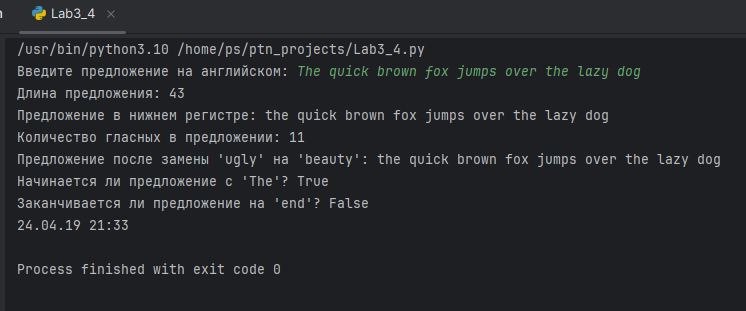
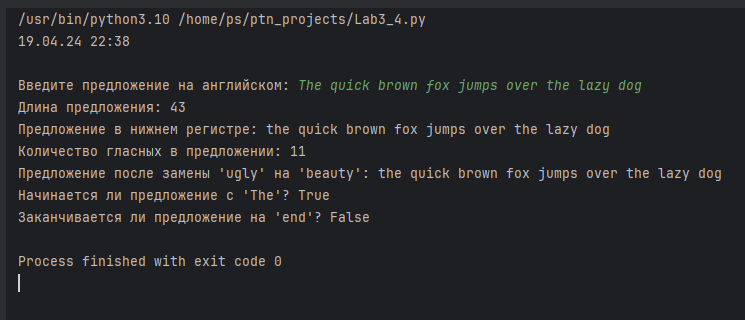
Рефакторинг

Changed region(s): [[0.0, 0.2026, 0.9879, 0.7524], [0.0, 0.0, 0.5866, 0.1736], [0.0, 0.7814, 0.4013, 0.8971]]

diff --git a/Lab3_4.py b/Lab3_4.py
@@ -1,6 +1,5 @@
-from datetime import datetime
-current_datetime = datetime.now()
-formatted_datetime = current_datetime.strftime('%y.%m.%d %H:%M')
+from get_datetime import get_datetime
+get_datetime()
 
 sentence = input("Введите предложение на английском: ")
 print("Длина предложения:", len(sentence))
@@ -14,5 +13,3 @@ starts_with_the = sentence.startswith("The")
 ends_with_end = sentence.endswith("end")
 print("Начинается ли предложение с 'The'?", starts_with_the)
 print("Заканчивается ли предложение на 'end'?", ends_with_end)
-
-print(formatted_datetime)

diff --git a/Lab3_3.py b/Lab3_3.py
@@ -1,7 +1,5 @@
-from datetime import datetime
-current_datetime = datetime.now()
-formatted_datetime = current_datetime.strftime('%y.%m.%d %H:%M')
-
+from get_datetime import get_datetime
+get_datetime()
 try:
     number = float(input("Введите число от 0 до 10: "))
     if not 0 <= number <= 10: print("Число должно быть в диапазоне от 0 до 10.")
@@ -10,5 +8,3 @@ try:
     else: print("Число находится в диапазоне от 6 до 10 включительно.")
 except ValueError:
     print("Необходимо ввести число.")
-
-print(formatted_datetime)

diff --git a/Lab3_5.py b/Lab3_5.py
@@ -1,6 +1,5 @@
-from datetime import datetime
-current_datetime = datetime.now()
-formatted_datetime = current_datetime.strftime('%y.%m.%d %H:%M')
+from get_datetime import get_datetime
+get_datetime()
 
 string = 'hello'
 values = [0, 2, 4, 6, 8, 10]
@@ -13,5 +12,3 @@ while counter != 10:
     print(string + memory)
     counter += 1
 print(string + ' world')
-
-print(formatted_datetime)

diff --git a/Lab3_1.py b/Lab3_1.py
@@ -1,11 +1,8 @@
-from datetime import datetime
-current_datetime = datetime.now()
-formatted_datetime = current_datetime.strftime('%y.%m.%d %H:%M')
+from get_datetime import get_datetime
+get_datetime()
 
 x = 1
 for _ in range(2):
     x *= 5
     x += 1
 print(x)
-
-print(formatted_datetime)

diff --git a/Lab3_2.py b/Lab3_2.py
@@ -1,8 +1,5 @@
-from datetime import datetime
-current_datetime = datetime.now()
-formatted_datetime = current_datetime.strftime('%y.%m.%d %H:%M')
+from get_datetime import get_datetime
+get_datetime()
 
 for char in "Hello World"[::-1]:
     print(char)
-
-print(formatted_datetime)

diff --git a/get_datetime.py b/get_datetime.py
@@ -1,0 +1,6 @@
+from datetime import datetime
+
+
+def get_datetime():
+    print(datetime.now().strftime('%d.%m.%y %H:%M'))
+    print()
